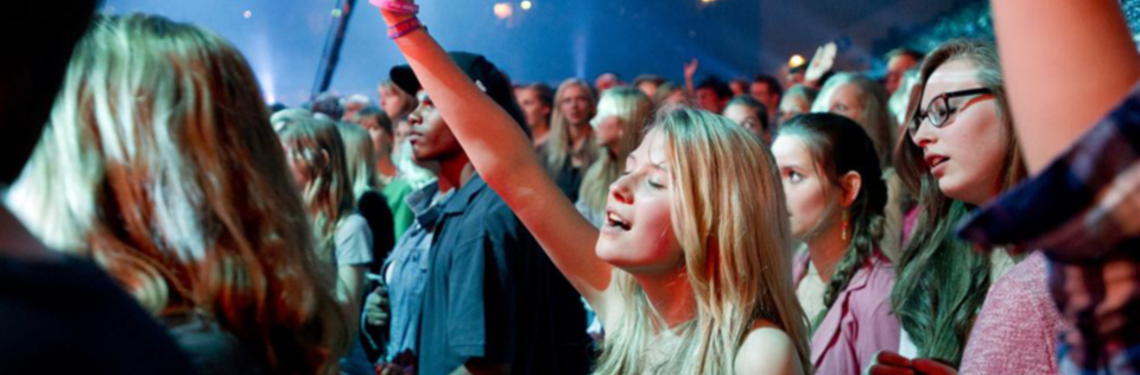
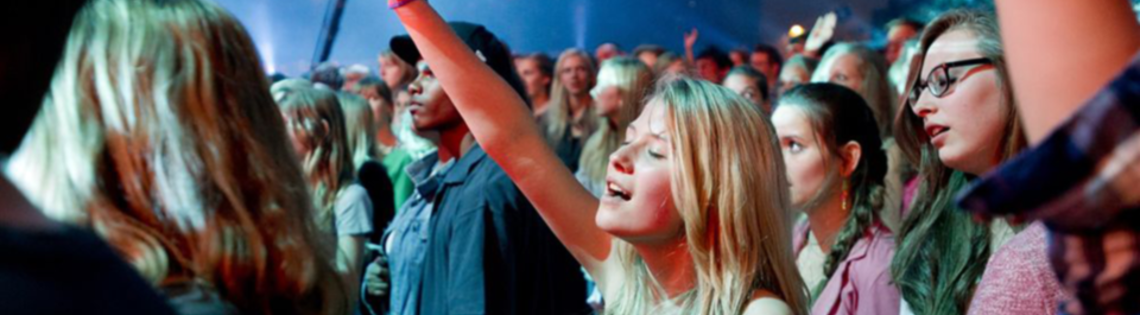
responsive header was yes

diff --git a/src/langerak_gkv/static/langerak_gkv/css/screen.css b/src/langerak_gkv/static/langerak_gkv/css/screen.css
@@ -125,13 +125,13 @@ body {
 
 /* line 5, ../../../sass/partials/_base.scss */
 .narrow {
-  padding-left: 65px;
-  padding-right: 65px;
+  padding-left: 50px;
+  padding-right: 50px;
 }
 /* line 10, ../../../sass/partials/_base.scss */
 .narrow .narrow {
-  margin-left: -65px;
-  margin-right: -65px;
+  margin-left: -50px;
+  margin-right: -50px;
 }
 
 /* line 19, ../../../sass/partials/_base.scss */
@@ -249,13 +249,7 @@ img {
   border: solid 1px red;
 }
 
-/* line 16, ../../../sass/partials/_forms.scss */
-.dark input, .dark textarea {
-  background-color: #584C40;
-  color: #FFFFFF;
-}
-
-/* line 23, ../../../sass/partials/_forms.scss */
+/* line 15, ../../../sass/partials/_forms.scss */
 form .btn {
   color: #FFFFFF;
   font-size: 18px;
@@ -265,26 +259,26 @@ form .btn {
   -webkit-transition: background-color, 0.5s;
   transition: background-color, 0.5s;
 }
-/* line 30, ../../../sass/partials/_forms.scss */
+/* line 22, ../../../sass/partials/_forms.scss */
 form .btn:hover, form .btn:focus, form .btn:active {
   position: relative;
   top: 2px;
 }
-/* line 37, ../../../sass/partials/_forms.scss */
+/* line 29, ../../../sass/partials/_forms.scss */
 form .btn-fade:hover, form .btn-fade:focus, form .btn-fade:active {
   color: #FFFFFF;
   background-color: rgba(0, 0, 0, 0.075);
 }
-/* line 43, ../../../sass/partials/_forms.scss */
+/* line 35, ../../../sass/partials/_forms.scss */
 form .btn-transparent {
   background-color: transparent;
 }
 
-/* line 49, ../../../sass/partials/_forms.scss */
+/* line 41, ../../../sass/partials/_forms.scss */
 .errorlist {
   padding-left: 0;
 }
-/* line 52, ../../../sass/partials/_forms.scss */
+/* line 44, ../../../sass/partials/_forms.scss */
 .errorlist li {
   color: red;
   font-weight: bold;
@@ -328,8 +322,12 @@ form .btn-transparent {
 body > header {
   position: relative;
 }
+/* line 4, ../../../sass/partials/_header.scss */
+body > header.header-container {
+  overflow: hidden;
+}
 
-/* line 6, ../../../sass/partials/_header.scss */
+/* line 10, ../../../sass/partials/_header.scss */
 #header-overlay {
   position: absolute;
   top: 0;
@@ -341,12 +339,19 @@ body > header {
   width: 100%;
 }
 
-/* line 16, ../../../sass/partials/_header.scss */
+/* line 20, ../../../sass/partials/_header.scss */
 #header-image {
   max-height: 375px;
+  margin-left: -15px;
+  margin-right: -15px;
+}
+/* line 25, ../../../sass/partials/_header.scss */
+#header-image > img {
+  max-height: 315px;
+  margin-top: 60px;
 }
 
-/* line 19, ../../../sass/partials/_header.scss */
+/* line 31, ../../../sass/partials/_header.scss */
 #header-overlay-left,
 #header-overlay-right {
   width: 100%;
@@ -354,21 +359,30 @@ body > header {
   position: absolute;
   top: 0;
   overflow: hidden;
+  background-size: contain !important;
+}
+@media (max-width: 992px) {
+  /* line 31, ../../../sass/partials/_header.scss */
+  #header-overlay-left,
+  #header-overlay-right {
+    height: 262px;
+  }
 }
 
-/* line 27, ../../../sass/partials/_header.scss */
+/* line 43, ../../../sass/partials/_header.scss */
 #header-overlay-left {
   background: url("../../img/header_overlay_left.png") no-repeat center left;
-  left: 15px;
+  left: 0;
+  top: 60px;
 }
 
-/* line 31, ../../../sass/partials/_header.scss */
+/* line 48, ../../../sass/partials/_header.scss */
 #header-overlay-right {
   background: url("../../img/header_overlay_right.png") no-repeat center right;
-  right: 15px;
+  right: 0;
 }
 
-/* line 35, ../../../sass/partials/_header.scss */
+/* line 52, ../../../sass/partials/_header.scss */
 #bid-ontvangt {
   display: block;
   background: url("../../img/bid-ontvangt.png") no-repeat center center;
@@ -380,7 +394,7 @@ body > header {
   right: 65px;
 }
 
-/* line 46, ../../../sass/partials/_header.scss */
+/* line 63, ../../../sass/partials/_header.scss */
 #logo {
   text-indent: -9999px;
   background: url("../../logo/logo.png") no-repeat center center;
@@ -393,73 +407,73 @@ body > header {
   z-index: 100;
 }
 
-/* line 58, ../../../sass/partials/_header.scss */
+/* line 75, ../../../sass/partials/_header.scss */
 form#search {
   position: absolute;
   top: 15px;
   right: 10%;
   z-index: 100;
 }
-/* line 64, ../../../sass/partials/_header.scss */
+/* line 81, ../../../sass/partials/_header.scss */
 form#search input {
   padding: 0 12px;
   height: 25px;
   width: 250px;
 }
-/* line 70, ../../../sass/partials/_header.scss */
+/* line 87, ../../../sass/partials/_header.scss */
 form#search .btn-search {
   background: transparent;
   border: none;
   font-size: 18px;
   padding: 0;
 }
-/* line 76, ../../../sass/partials/_header.scss */
+/* line 93, ../../../sass/partials/_header.scss */
 form#search .btn-search > .fa {
   vertical-align: bottom;
 }
 
-/* line 82, ../../../sass/partials/_header.scss */
+/* line 99, ../../../sass/partials/_header.scss */
 #main-nav {
   margin-bottom: 0;
   border: none;
   min-height: 30px;
 }
-/* line 89, ../../../sass/partials/_header.scss */
+/* line 106, ../../../sass/partials/_header.scss */
 #main-nav .navbar-header .navbar-brand {
   max-height: 40px;
   padding-top: 0;
   margin-top: 5px;
 }
-/* line 94, ../../../sass/partials/_header.scss */
+/* line 111, ../../../sass/partials/_header.scss */
 #main-nav .navbar-header .navbar-brand img {
   width: 82px;
   height: 40px;
 }
-/* line 100, ../../../sass/partials/_header.scss */
+/* line 117, ../../../sass/partials/_header.scss */
 #main-nav .navbar-header .navbar-toggle {
   border: solid 1px #6D095E;
 }
-/* line 104, ../../../sass/partials/_header.scss */
+/* line 121, ../../../sass/partials/_header.scss */
 #main-nav .navbar-header .icon-bar {
   background-color: #6D095E;
 }
-/* line 111, ../../../sass/partials/_header.scss */
+/* line 128, ../../../sass/partials/_header.scss */
 #main-nav .navbar-nav li.active a {
   background: #E9E9E9;
   color: #6D095E;
 }
-/* line 116, ../../../sass/partials/_header.scss */
+/* line 133, ../../../sass/partials/_header.scss */
 #main-nav .navbar-nav li a, #main-nav .navbar-nav li #btn-logout {
   text-transform: uppercase;
   color: #584C40;
   font-weight: bold;
   padding: 7px 10px;
 }
-/* line 122, ../../../sass/partials/_header.scss */
+/* line 139, ../../../sass/partials/_header.scss */
 #main-nav .navbar-nav li a:hover, #main-nav .navbar-nav li a:focus, #main-nav .navbar-nav li a:active, #main-nav .navbar-nav li #btn-logout:hover, #main-nav .navbar-nav li #btn-logout:focus, #main-nav .navbar-nav li #btn-logout:active {
   background: #E9E9E9;
 }
-/* line 129, ../../../sass/partials/_header.scss */
+/* line 146, ../../../sass/partials/_header.scss */
 #main-nav #btn-logout {
   text-decoration: none;
   display: block;
@@ -467,7 +481,7 @@ form#search .btn-search > .fa {
   text-align: left;
 }
 
-/* line 138, ../../../sass/partials/_header.scss */
+/* line 155, ../../../sass/partials/_header.scss */
 .page-header {
   margin-top: 0;
   margin-bottom: 10px;
@@ -477,14 +491,14 @@ form#search .btn-search > .fa {
   padding: 5px;
   color: #FFFFFF;
 }
-/* line 147, ../../../sass/partials/_header.scss */
+/* line 164, ../../../sass/partials/_header.scss */
 .page-header a.abs-left {
   position: absolute;
   left: 10px;
   top: 5px;
   color: #FFFFFF;
 }
-/* line 154, ../../../sass/partials/_header.scss */
+/* line 171, ../../../sass/partials/_header.scss */
 .page-header .title {
   line-height: 20px;
   font-size: 120%;

diff --git a/src/langerak_gkv/templates/header.html b/src/langerak_gkv/templates/header.html
@@ -1,21 +1,21 @@
 {% load i18n static menu_tags cms_tags langerak %}
-<header class="container hidden-xs">
+<header class="header-container container hidden-xs">
     <figure id="header-image">
         {% placeholder header_image or %}
             <img src="{% static "img/header_img1.png" %}">
         {% endplaceholder %}
     </figure>
 
-    <div id="header-overlay" class="visible-lg-block">
+    <div id="header-overlay">
         <div id="header-overlay-left"></div>
         <div id="header-overlay-right">
-            <span id="bid-ontvangt"></span>
+            <span id="bid-ontvangt" class="visible-lg-block visible-xl-block"></span>
         </div>
     </div>
 
     <a href="{% url 'home' %}" id="logo">Koningskerk</a>
 
-    <form id="search" action="#TODO" class="dark form-inline">
+    <form id="search" action="#TODO" class="form-inline">
         <input name="q" placeholder="{% trans "Search" %}" class="form-control">
         <button type="submit" class="btn-search"><i class="fa fa-search"></i></button>
     </form>

diff --git a/src/langerak_gkv/sass/partials/_header.scss b/src/langerak_gkv/sass/partials/_header.scss
@@ -1,5 +1,9 @@
 body > header {
   position: relative;
+
+  &.header-container {
+    overflow: hidden;
+  }
 }
 
 $header-height: 375px;
@@ -15,6 +19,14 @@ $header-height: 375px;
 }
 #header-image {
   max-height: $header-height;
+  margin-left: -15px;
+  margin-right: -15px;
+
+  > img {
+    $margin-top: 60px;
+    max-height: $header-height - $margin-top;
+    margin-top: $margin-top;
+  }
 }
 #header-overlay-left,
 #header-overlay-right {
@@ -23,14 +35,19 @@ $header-height: 375px;
   position: absolute;
   top: 0;
   overflow: hidden;
+  background-size: contain!important;
+  @media (max-width: 992px) {
+    height: 262px;
+  }
 }
 #header-overlay-left {
   @include background(url('../../img/header_overlay_left.png') no-repeat center left);
-  left: 15px;
+  left: 0;
+  top: 60px;
 }
 #header-overlay-right {
   @include background(url('../../img/header_overlay_right.png') no-repeat center right);
-  right: 15px;
+  right: 0;
 }
 #bid-ontvangt {
   display: block;

diff --git a/src/langerak_gkv/homepage/templates/homepage/includes/pod.html b/src/langerak_gkv/homepage/templates/homepage/includes/pod.html
@@ -5,7 +5,7 @@
         <h3>{% trans "Prayer on demand" %}<br />
             <small>{% trans "Fill the form and our prayer group will pray for you." %}</small>
         </h3>
-        <form action="{% url 'pod' %}" method="post" class="dark">{% csrf_token %}
+        <form action="{% url 'pod' %}" method="post">{% csrf_token %}
             {% form 'homepage/pod.form' %}
             {% for field in form %}{% field field %}{% endfor %}
                 {% use 'btn-submit' btn_class='btn-transparent btn-fade' %}

diff --git a/src/langerak_gkv/sass/partials/_forms.scss b/src/langerak_gkv/sass/partials/_forms.scss
@@ -11,14 +11,6 @@
   }
 }
 
-
-.dark {
-  input, textarea {
-    background-color: $text-dark;
-    color: $white;
-  }
-}
-
 form {
   .btn {
     color: $white;

diff --git a/src/langerak_gkv/sass/partials/_base.scss b/src/langerak_gkv/sass/partials/_base.scss
@@ -3,7 +3,7 @@ body {
 }
 
 .narrow {
-  $spacing: 65px;
+  $spacing: 50px;
   padding-left: $spacing;
   padding-right: $spacing;
 

diff --git a/src/langerak_gkv/conf/settings.py b/src/langerak_gkv/conf/settings.py
@@ -332,7 +332,7 @@ THUMBNAIL_ALIASES = {
             'upscale': True,
         },
         'header': {
-            'size': (1140, 375),
+            'size': (1170, 315),
             'crop': True,
             'upscale': True
         }
